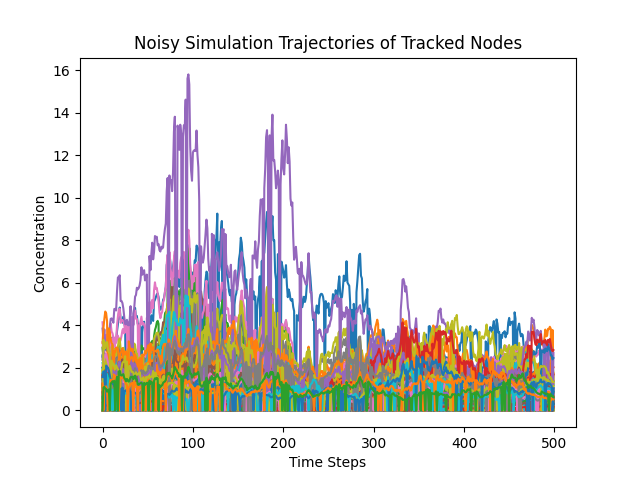
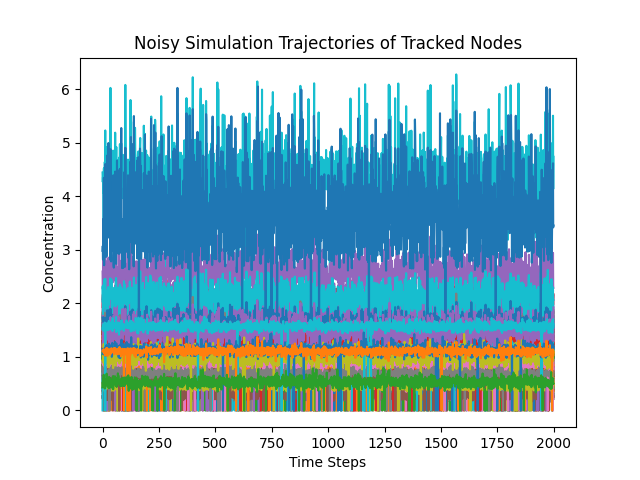
fixed simulator

diff --git a/simulation/simulator.py b/simulation/simulator.py
@@ -7,6 +7,20 @@ import os
 import seaborn as sns
 from sklearn.decomposition import PCA
 
+def add_baths(adjacency_matrix):
+    """Adds bath connections to each node in the adjacency matrix.
+    Args:
+        adjacency_matrix (np.ndarray): The original adjacency matrix.
+    """
+    num_nodes = adjacency_matrix.shape[0]
+    new_size = num_nodes * 2
+    new_adj_matrix = np.zeros((new_size, new_size))
+    new_adj_matrix[:num_nodes, :num_nodes] = adjacency_matrix
+    for i in range(num_nodes):
+        new_adj_matrix[i, num_nodes + i] = 1  # connection to bath
+        new_adj_matrix[num_nodes + i, i] = 1  # connection from bath
+    return new_adj_matrix
+
 class Simulator:
     """A simulator to produce data to train a kinetic constants estimator.
     Randomly creates a system as a graph, then extract the kinetic constants and compute the per-node concentrations.
@@ -117,11 +131,11 @@ class Simulator:
         
         np.random.seed(random_seed)
 
-        num_nodes = self.adjacency_matrix.shape[0]
+        num_nodes = self.adjacency_matrix.shape[0] * 2 # add connections to baths
 
         symm_adjacency = self.adjacency_matrix + self.adjacency_matrix.T
         symm_adjacency[symm_adjacency > 0] = 1
-        num_reactions = (np.sum(self.adjacency_matrix) / 2).astype(int)
+        num_reactions = (np.sum(symm_adjacency) / 2).astype(int) + (num_nodes - self.adjacency_matrix.shape[0])  # undirected edges + connections to baths
 
         if c_rank is None:
             c_rank = num_nodes
@@ -130,32 +144,35 @@ class Simulator:
 
         if c_L is None:
             c_L = np.random.randn(num_nodes, c_rank) / np.sqrt(c_rank) * sigma
-        c_cov_matrix = c_L @ c_L.T + np.random.randn(num_nodes, num_nodes) * 1e-5
+        c_cov_matrix = c_L @ c_L.T + np.random.randn(num_nodes, num_nodes) * 1e-6
         c_mu = np.full(num_nodes, mean)
 
         if reax_L is None:
             reax_L = np.random.randn(num_reactions, reax_rank) / np.sqrt(reax_rank) * sigma
-        reax_cov_matrix = reax_L @ reax_L.T + np.random.randn(num_reactions, num_reactions) * 1e-5
+        reax_cov_matrix = reax_L @ reax_L.T + np.random.randn(num_reactions, num_reactions) * 1e-6
         reax_mu = np.full(num_reactions, mean_barrier)
 
         self.free_energies = np.random.multivariate_normal(c_mu, c_cov_matrix, size=n_samples)
 
-        reaction_barriers = np.random.multivariate_normal(reax_mu, reax_cov_matrix, size=n_samples)
+        reaction_barriers = np.abs(np.random.multivariate_normal(reax_mu, reax_cov_matrix, size=n_samples))
         transition_free_energies = np.zeros((n_samples, num_nodes, num_nodes))
+        big_adjacency = add_baths(symm_adjacency)
         idx = 0
         for i in range(num_nodes):
             for j in range(i+1, num_nodes):
-                if self.adjacency_matrix[i, j] > 0:
+                if big_adjacency[i, j] > 0:
                     transition_free_energies[:, i, j] = np.maximum(self.free_energies[:, i], self.free_energies[:, j]) + reaction_barriers[:, idx] - self.free_energies[:, i]
                     transition_free_energies[:, j, i] = np.maximum(self.free_energies[:, j], self.free_energies[:, i]) + reaction_barriers[:, idx] - self.free_energies[:, j]
                     idx += 1
-        self.kinetic_constants = np.exp(-transition_free_energies) * symm_adjacency[np.newaxis, :, :]
+        self.kinetic_constants = np.exp(-transition_free_energies[:, :symm_adjacency.shape[0], :symm_adjacency.shape[0]]) * symm_adjacency[np.newaxis, :, :]
         self.sparse_kinetic_constants = self.kinetic_constants[:, symm_adjacency > 0]
-        self.degradation_constants = np.exp(np.random.normal(mean-0.4, sigma/2, size=(n_samples, num_nodes)))
-        self.production_constants = np.exp(np.random.normal(mean-0.4, sigma/2, size=(n_samples, num_nodes)))
+        self.degradation_constants = np.exp(-transition_free_energies[:, :symm_adjacency.shape[0], symm_adjacency.shape[0]:][transition_free_energies[:, :symm_adjacency.shape[0], symm_adjacency.shape[0]:] > 0])  # from nodes to baths
+        self.degradation_constants = np.reshape(self.degradation_constants, (n_samples, symm_adjacency.shape[0]))
+        self.production_constants = np.exp(-transition_free_energies[:, symm_adjacency.shape[0]:, :symm_adjacency.shape[0]][transition_free_energies[:, symm_adjacency.shape[0]:, :symm_adjacency.shape[0]] > 0])  # from baths to nodes
+        self.production_constants = np.reshape(self.production_constants, (n_samples, symm_adjacency.shape[0]))
         self.dropout = np.random.random() * 0.1
-        self.concentration_noise = 0.1 * np.random.random()
-        self.log_kinetic_constants_noise = 0.04 * np.random.random()
+        self.concentration_noise = 0.4 * np.random.random()
+        self.log_kinetic_constants_noise = 0.4 * np.random.random()
     
     def graph_components(self):
         """Identifies connected components in the graph. Needed to avoid singular matrices during simulation."""
@@ -247,10 +264,7 @@ class Simulator:
 
         tracked_concentrations = [[] for node in track_concentrations]
 
-        k_out = np.sum(self.kinetic_constants, axis=2)
-        print(k_out.shape)
-        print(self.degradation_constants.shape)
-        print(k_out)
+        k_out = np.einsum('bij->bi', self.kinetic_constants)
         for iteration in range(max_iterations):
             if iteration == max_iterations - 1:
                 raise Exception("Simulation did not converge within the maximum number of iterations.")
@@ -275,7 +289,7 @@ class Simulator:
                 tracked_concentrations[i].append(new_concentrations[0, node])
 
             #print(f"Iteration {iteration}: Max Relative Change = {np.max(np.abs(new_concentrations - concentrations) / concentrations):.6f}, Index of Max Change = {np.argmax(np.abs(new_concentrations - concentrations) / concentrations)}")
-            if np.max(np.abs(new_concentrations - concentrations) / (concentrations + 1e-8)) < convergence_threshold:
+            if np.max(np.abs(new_concentrations - concentrations) / (concentrations + 1e-10)) < convergence_threshold:
                 break
             concentrations = new_concentrations
 
@@ -293,7 +307,7 @@ class Simulator:
             plt.show()
         return self.concentrations
     
-    def run_noisy_simulation(self, steps=1000, time_step=None, track_concentrations=[]):
+    def run_noisy_simulation(self, steps=1000, num_perturbations=10, time_step=None, track_concentrations=[]):
         """Starting from euilibrium concentrations, run a noisy simulation to collect data. 
         Noise on concentrations in gaussian (to replicate pixel heterogeneity), while noise on kinetic constants is lognormal.
         Args:
@@ -321,7 +335,6 @@ class Simulator:
             time_step = 1 / (10 * k_max)
 
         # Move arrays to chosen backend
-        concentrations = xp.array(self.concentrations, copy=True)
         kin = xp.array(self.kinetic_constants)
         degr = xp.array(self.degradation_constants)
         prod = xp.array(self.production_constants)
@@ -329,36 +342,40 @@ class Simulator:
 
         concentration_data = []
 
-        for step in range(steps):
+        for perturbation in range(num_perturbations):
+            concentrations = xp.array(self.concentrations, copy=True)
             # correlated gaussian noise: draw vector z ~ N(0,1), then L @ z
             z = xp.random.normal(0, self.concentration_noise, size=concentrations.shape)
             correlated = xp.einsum('ij,bj->bi', L, z)
             concentrations = concentrations + concentrations * correlated
             concentrations[concentrations < 0] = 0
 
-            noisy_kin = kin * xp.exp(xp.random.normal(0, self.log_kinetic_constants_noise, size=kin.shape))
-            noisy_degr = degr * xp.exp(xp.random.normal(0, self.log_kinetic_constants_noise, size=degr.shape))
-            noisy_prod = prod * xp.exp(xp.random.normal(0, self.log_kinetic_constants_noise, size=prod.shape))
+            for step in range(steps):
+                noisy_kin = kin * xp.exp(xp.log(kin + 1e-8) * xp.random.normal(0, self.log_kinetic_constants_noise, size=kin.shape))
+                noisy_degr = degr * xp.exp(xp.log(degr + 1e-8) * xp.random.normal(0, self.log_kinetic_constants_noise, size=degr.shape))
+                noisy_prod = prod * xp.exp(xp.log(prod + 1e-8) * xp.random.normal(0, self.log_kinetic_constants_noise, size=prod.shape))
 
-            production = np.einsum('bji,bj->bi', noisy_kin, concentrations) + noisy_prod
-            degradation = (xp.sum(noisy_kin, axis=2) + noisy_degr) * concentrations
-            dCdt = production - degradation
+                production = np.einsum('bji,bj->bi', noisy_kin, concentrations) + noisy_prod
+                degradation = (xp.einsum('bij->bi', noisy_kin) + noisy_degr) * concentrations
+                dCdt = production - degradation
 
-            concentrations = concentrations + dCdt * time_step
-            concentrations[concentrations < 0] = 0
+                concentrations = concentrations + dCdt * time_step
+                concentrations[concentrations < 0] = 0
 
-            if self.dropout > 0.0:
-                drop_mask = xp.random.rand(*concentrations.shape) < self.dropout
-                measured_concentrations = concentrations * (1 - drop_mask)
-            else:
-                measured_concentrations = concentrations
+                if self.dropout > 0.0:
+                    drop_mask = xp.random.rand(*concentrations.shape) < self.dropout
+                    measured_concentrations = concentrations * (1 - drop_mask)
+                else:
+                    measured_concentrations = concentrations
 
-            concentration_data.append(measured_concentrations.copy())
+                concentration_data.append(measured_concentrations.copy())
 
         if use_cupy:
             self.simulated_data = xp.asnumpy(xp.stack(concentration_data))
         else:
             self.simulated_data = np.array(concentration_data)  #shape (steps, num_nodes)
+        
+        np.random.shuffle(self.simulated_data)
 
         if track_concentrations != []:
             plt.plot(self.simulated_data[:, 0, track_concentrations])
@@ -428,17 +445,17 @@ if __name__ == "__main__":
             correlation_matrix.loc[lipid, lipid2] = correlation_matrix_partial.loc[lipid, lipid2]
     L = np.linalg.cholesky(correlation_matrix)
 
-    simulator = Simulator(random_seed=12)
+    simulator = Simulator(random_seed=42)
     graph = simulator.build_graph(adjacency_matrix=adj_matrix)
     #simulator.graph_info()
-    simulator.sample_free_energies(mean=0, sigma=1.0, mean_barrier=1.0, random_seed=12, c_rank=5, reax_rank=5, n_samples=10)
+    simulator.sample_free_energies(mean=0, sigma=1.0, mean_barrier=1.0, random_seed=22, c_rank=5, reax_rank=5, n_samples=10)
 
     nodes_to_track = [i for i in range(len(all_lipids))]
     concentrations = simulator.run_equilibration(track_concentrations=nodes_to_track)
     simulator.set_simulation_parameters(correlation_matrix=correlation_matrix)
-    simulated_data = simulator.run_noisy_simulation(steps=500, track_concentrations=nodes_to_track)
+    simulated_data = simulator.run_noisy_simulation(steps=200, num_perturbations=10, track_concentrations=nodes_to_track)
 
-    #mean_concentrations, std_concentrations = simulator.analyze_results()
+    mean_concentrations, std_concentrations = simulator.analyze_results()
 
     correlation_matrix_simulated = np.corrcoef(simulated_data[:,0,:].T)
     correlation_df = pd.DataFrame(correlation_matrix_simulated, index=all_lipids, columns=all_lipids)
@@ -448,7 +465,6 @@ if __name__ == "__main__":
     
     pca = PCA()
     pca.fit(simulator.free_energies)
-    print(simulator.free_energies.shape)
 
     # 2. Extract the Eigenvalues (Variances)
     eigenvalues = pca.explained_variance_
@@ -469,5 +485,5 @@ if __name__ == "__main__":
     # 4. Check the "Intrinsic Dimension"
     # Count how many components are effectively non-zero (above machine noise)
     # A common threshold for numerical noise is 1e-10
-    effective_rank = np.sum(eigenvalues > 1e-3)
+    effective_rank = np.sum(eigenvalues > 1e-2)
     print(f"PCA estimates the rank is: {effective_rank}")
